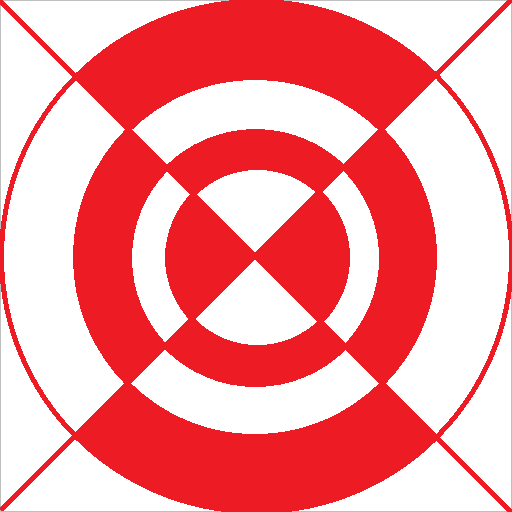
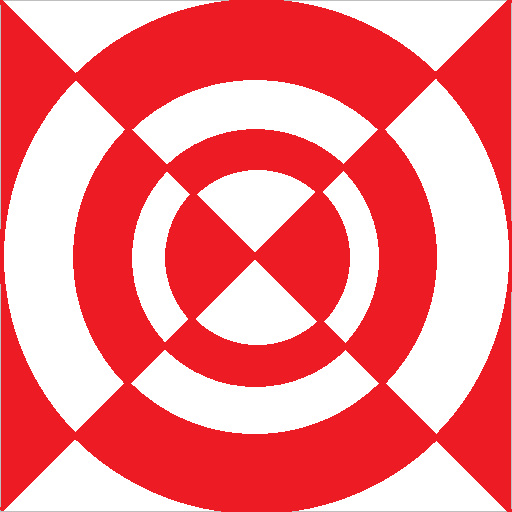
いろいろ判定実装したが、ボックスコライダーのサイズバグがある

diff --git a/SourceCode/Obstacle.cpp b/SourceCode/Obstacle.cpp
@@ -36,17 +36,15 @@ void Obstacle::Release()
 void Obstacle::OnCollision(GameObject* other,Collider* col)
 {
 	BoxCollider* bCol = dynamic_cast<BoxCollider*>(col);
-	if (bCol != nullptr)
+
+	std::string name = other->GetObjectName();
+	if (name == "Ball")
 	{
-		//CollisionBox(other, bCol);
-		return;
+		CollisionBall(other, col);
 	}
-	
-	SphereCollider* sCol = dynamic_cast<SphereCollider*>(col);
-	if (sCol != nullptr)
+	else if (name == "Fighter")
 	{
-		//CollisionSphere(other, sCol);
-		return;
+		CollisionPlayer(other, col);
 	}
 
 	return;
@@ -61,7 +59,7 @@ void Obstacle::SetObject(XMFLOAT3 position, XMFLOAT3 scale)
 	AddCollider(col);
 }
 
-void Obstacle::CollisionSphere(GameObject* other, SphereCollider* col)
+void Obstacle::CollisionBall(GameObject* ball, Collider* col)
 {
 	//ボックスの座標、サイズを取得
 	XMFLOAT3 obsPos = transform_.position_;
@@ -71,7 +69,7 @@ void Obstacle::CollisionSphere(GameObject* other, SphereCollider* col)
 	XMVECTOR boxMin = boxPos - (boxSize / 2.0f);
 	XMVECTOR boxMax = boxPos + (boxSize / 2.0f);
 
-	XMFLOAT3 sPos = other->GetPosition();
+	XMFLOAT3 sPos = ball->GetPosition();
 	float radius = col->GetSize().x;
 	XMVECTOR spherePos = XMLoadFloat3(&sPos);
 
@@ -90,9 +88,54 @@ void Obstacle::CollisionSphere(GameObject* other, SphereCollider* col)
 
 		XMFLOAT3 newPos;
 		XMStoreFloat3(&newPos, spherePos);
-		other->SetPosition(newPos);
+		ball->SetPosition(newPos);
 	}
 }
 
-void Obstacle::CollisionBox(GameObject * other, BoxCollider * col)
-{}
+void Obstacle::CollisionPlayer(GameObject* player, Collider* col)
+{
+	//障害物側の座標、サイズ
+	XMVECTOR obsPos = XMLoadFloat3(&transform_.position_);
+	XMVECTOR obsSize = XMLoadFloat3(&transform_.scale_);
+	
+	//プレイヤーの座標、サイズ
+	XMFLOAT3 pos = player->GetPosition();
+	XMFLOAT3 colSize = col->GetSize();
+	XMVECTOR otherPos = XMLoadFloat3(&pos);
+	XMVECTOR otherSize = XMLoadFloat3(&colSize);
+	
+	XMVECTOR diff = otherPos - obsPos;
+	XMVECTOR overlap = (obsSize / 2.0f + otherSize / 2.0f) - XMVectorAbs(diff);
+
+	float overlapX = XMVectorGetX(overlap);
+	float overlapY = XMVectorGetY(overlap);
+	float overlapZ = XMVectorGetZ(overlap);
+
+	if (overlapX <= 0.0f)return;
+	if (overlapY <= 0.0f)return;
+	if (overlapZ <= 0.0f)return;
+
+	XMVECTOR pushVector = XMVectorZero();
+	float dir = 0.0f;
+
+	if (overlapX < overlapY && overlapX < overlapZ)
+	{
+		dir = (XMVectorGetX(diff) < 0.0f) ? -1.0f : 1.0f;
+		pushVector = XMVectorSet(overlapX * dir, 0.0f, 0.0f, 0.0f);
+	}
+	else if (overlapY < overlapZ)
+	{
+		dir = (XMVectorGetY(diff) < 0.0f) ? -1.0f : 1.0f;
+		pushVector = XMVectorSet(0.0f, overlapY * dir, 0.0f, 0.0f);
+	}
+	else
+	{
+		dir = (XMVectorGetZ(diff) < 0.0f) ? -1.0f : 1.0f;
+		pushVector = XMVectorSet(0.0f, 0.0f, overlapZ * dir, 0.0f);
+	}
+
+	otherPos += pushVector;
+	XMFLOAT3 newPos;
+	XMStoreFloat3(&newPos, otherPos);
+	player->SetPosition(newPos);
+}

diff --git a/SourceCode/TargetObject.cpp b/SourceCode/TargetObject.cpp
@@ -1,0 +1,43 @@
+#include "TargetObject.h"
+#include"../Engine/Model.h";
+#include"../Engine/BoxCollider.h"
+#include"../Engine/Text.h"
+
+TargetObject::TargetObject(GameObject* parent)
+	:GameObject(parent,"TargetObject"),
+	hModel_(-1),
+	text_(nullptr)
+{
+}
+
+TargetObject::~TargetObject()
+{
+}
+
+void TargetObject::Initialize()
+{
+	BoxCollider* col = new BoxCollider(XMFLOAT3(0.0f, 0.0f, 0.0f), COL_SIZE);
+	AddCollider(col);
+
+	hModel_ = Model::Load("Target.fbx");
+	assert(hModel_ >= 0);
+}
+
+void TargetObject::Update()
+{
+}
+
+void TargetObject::Draw()
+{
+	Model::SetTransform(hModel_, transform_);
+	Model::Draw(hModel_);
+}
+
+void TargetObject::Release()
+{
+}
+
+void TargetObject::OnCollision(GameObject* other, Collider* col)
+{
+
+}

diff --git a/SourceCode/TestScene.cpp b/SourceCode/TestScene.cpp
@@ -15,7 +15,7 @@ void TestScene::Initialize()
 	Fighter* fighter = Instantiate<Fighter>(this);
 	fighter->SetController(new PlayerController());
 
-	const int OBSTACLE_COUNT = 7;
+	const int OBSTACLE_COUNT = 6;
 	XMFLOAT3 positions[OBSTACLE_COUNT] =
 	{
 		{0,0,0},
@@ -23,18 +23,16 @@ void TestScene::Initialize()
 		{8,2,0},
 		{0,2,8},
 		{0,2,-8},
-		{0,4,0},
-		{0,1,4}
+		{0,2.0f,4}
 	};
 	XMFLOAT3 scales[OBSTACLE_COUNT]
 	{
-		{16,0.1f,16},
-		{0.1f,4,16},
-		{0.1f,4,16},
-		{16,4,0.1f},
-		{16,4,0.1f},
-		{16,0.1f,16},
-		{1,1,1}
+		{16,1,16},
+		{1,4,16},
+		{1,4,16},
+		{16,4,1},
+		{16,4,1},
+		{1,3,1}
 	};
 
 	for (int i = 0;i < OBSTACLE_COUNT;i++)

diff --git a/SourceCode/Obstacle.h b/SourceCode/Obstacle.h
@@ -23,10 +23,10 @@ public:
 	/// <param name="scale">スケール</param>
 	void SetObject(XMFLOAT3 position, XMFLOAT3 scale);
 private:
-	//球に接触したときの処理
-	void CollisionSphere(GameObject* other,SphereCollider* col);
-	//ボックスに接触したときの処理
-	void CollisionBox(GameObject* other,BoxCollider* col);
+	//障害物に接触したときの処理
+	void CollisionBall(GameObject* ball, Collider* col);
+	//プレイヤーに接触したときの処理
+	void CollisionPlayer(GameObject* player, Collider* col);
 private:
 	int hModel_;
 };

diff --git a/SourceCode/Fighter.h b/SourceCode/Fighter.h
@@ -21,7 +21,7 @@ public:
 	void Draw() override;
 	void Release() override;
 
-	void OnCollision(GameObject* other) override;
+	void OnCollision(GameObject* other,Collider* col) override;
 
 	/// <summary>
 	/// ファイター用のコントローラーを設定する
@@ -67,7 +67,7 @@ private:
 	//コライダーのサイズ
 	static constexpr XMFLOAT3 COL_SIZE = { 0.4f,1.0f,0.4f };
 	//移動速度
-	static constexpr float MOVE_SPEED = 1.5f;
+	static constexpr float MOVE_SPEED = 4.5f;
 	//最大HP
 	static constexpr float MAX_HP = 100.0f;
 	//前方ベクトル

diff --git a/SourceCode/Fighter.cpp b/SourceCode/Fighter.cpp
@@ -35,7 +35,9 @@ void Fighter::Initialize()
 	assert(move_ != nullptr);
 
 	health_->Initialize(MAX_HP);
+
 	move_->SetSpeed(MOVE_SPEED);
+	//move_->EnableGravity();
 	move_->ResetVelocity();
 
 	gun_ = Instantiate<Gun>(this);
@@ -70,8 +72,10 @@ void Fighter::Release()
 	delete move_;
 }
 
-void Fighter::OnCollision(GameObject* other)
-{}
+void Fighter::OnCollision(GameObject* other, Collider* col)
+{
+	//move_->ResetGravity();
+}
 
 void Fighter::Move(const FighterInput& input)
 {

diff --git a/SourceCode/TargetObject.h b/SourceCode/TargetObject.h
@@ -1,0 +1,21 @@
+#pragma once
+#include"../Engine/GameObject.h"
+
+class Text;
+
+class TargetObject : public GameObject
+{
+public:
+	TargetObject(GameObject* parent);
+	~TargetObject() override;
+	void Initialize() override;
+	void Update() override;
+	void Draw() override;
+	void Release() override;
+	void OnCollision(GameObject* other, Collider* col) override;
+private:
+	int hModel_;
+	Text* text_;
+private:
+	static constexpr XMFLOAT3 COL_SIZE = { 1.0f,1.0f,0.1f };
+};

diff --git a/SourceCode/Ball.cpp b/SourceCode/Ball.cpp
@@ -67,8 +67,6 @@ void Ball::SetMoveDirection(XMVECTOR direction)
 
 void Ball::CollisionObstacle(GameObject* obstacle, Collider* col)
 {
-	if (obstacle->GetObjectName() != "Obstacle")return;
-
 	//ボックスの座標、サイズを取得
 	XMFLOAT3 obsPos = obstacle->GetPosition();
  	XMFLOAT3 obsSize = col->GetSize();
